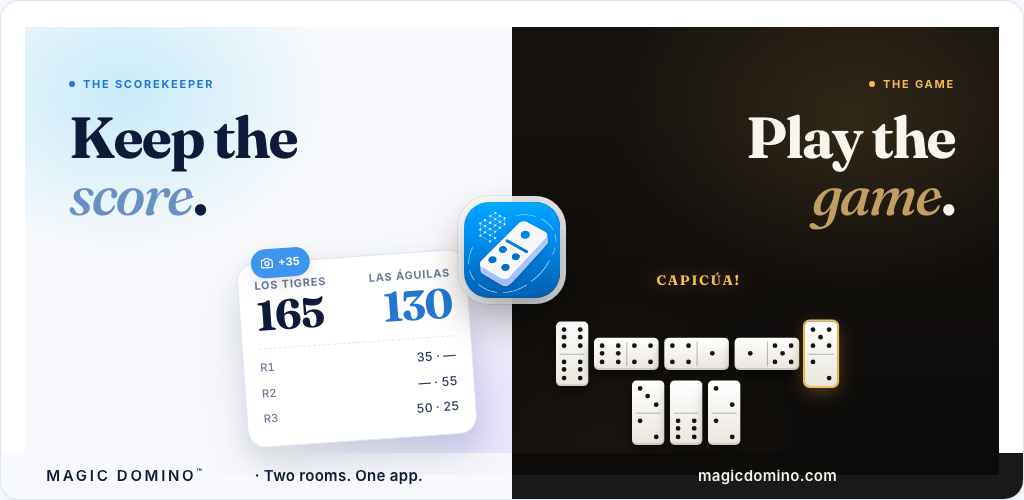
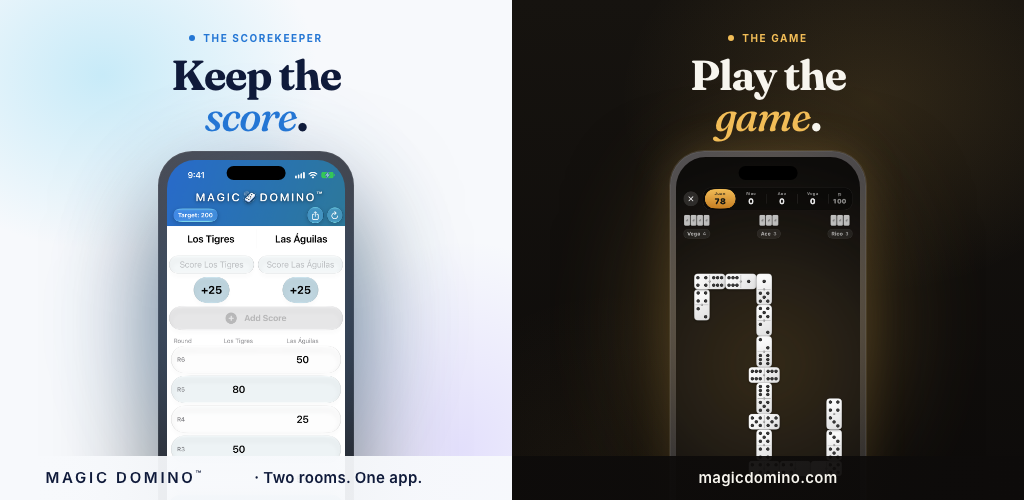
site: social card is the two-phone hero; dead illustration/hinge CSS removed; the bar has a fixed height the hero starts at, so the line and the panes meet at one pixel

diff --git a/index.html b/index.html
@@ -14,25 +14,25 @@
     <meta property="og:title" content="Magic Domino™ — Keep the score. Play the game.">
     <meta property="og:description" content="The dominoes scorekeeper trusted at real tables, and a real domino game with the rules you grew up with. Two rooms, one app.">
     <meta property="og:url" content="https://magicdomino.com/">
-    <meta property="og:image" content="https://magicdomino.com/social-card.png?v=20260930y">
+    <meta property="og:image" content="https://magicdomino.com/social-card.png?v=20260930z">
     <meta property="og:image:width" content="1024">
     <meta property="og:image:height" content="500">
     <meta name="twitter:card" content="summary_large_image">
     <meta name="twitter:title" content="Magic Domino™ — Keep the score. Play the game.">
     <meta name="twitter:description" content="The dominoes scorekeeper trusted at real tables, and a real domino game with the rules you grew up with. Two rooms, one app.">
-    <meta name="twitter:image" content="https://magicdomino.com/social-card.png?v=20260930y">
+    <meta name="twitter:image" content="https://magicdomino.com/social-card.png?v=20260930z">
 
     <link rel="preconnect" href="https://fonts.googleapis.com">
     <link rel="preconnect" href="https://fonts.gstatic.com" crossorigin>
     <link href="https://fonts.googleapis.com/css2?family=Fraunces:ital,opsz,wght@0,9..144,400;0,9..144,500;0,9..144,600;0,9..144,700;0,9..144,800;1,9..144,500&family=Inter:wght@400;500;600;700&display=swap" rel="stylesheet">
-    <link rel="stylesheet" href="site.css?v=20260930y">
-    <script src="/i18n.js?v=20260930y"></script>
+    <link rel="stylesheet" href="site.css?v=20260930z">
+    <script src="/i18n.js?v=20260930z"></script>
 </head>
 <body>
 
     <nav class="navbar" id="navbar">
         <a href="index.html" class="navbar-brand">
-            <img src="app-icon.png?v=20260930y" alt="" class="brand-icon"><span>Magic Domino<span class="brand-tm">™</span></span>
+            <img src="app-icon.png?v=20260930z" alt="" class="brand-icon"><span>Magic Domino<span class="brand-tm">™</span></span>
         </a>
         <button class="mobile-menu-toggle" onclick="toggleMenu()" aria-label="Menu" data-i18n-attr="aria-label:a11y.menu">☰</button>
         <div class="navbar-links" id="navbarLinks">
@@ -60,7 +60,7 @@
                     <a class="pane-link" href="#score"><span data-i18n="hero.scoreLink">See the scorekeeper</span> <span aria-hidden="true">↓</span></a>
                 </div>
                 <!-- A real phone, showing the real scoreboard, rising out of the pane. -->
-                <figure class="mock mock-score" aria-hidden="true"><img src="hero-score.png?v=20260930y" alt="" width="736" height="1600"></figure>
+                <figure class="mock mock-score" aria-hidden="true"><img src="hero-score.png?v=20260930z" alt="" width="736" height="1600"></figure>
             </div>
 
             <div class="pane pane-play world-play">
@@ -71,7 +71,7 @@
                     <a class="pane-link" href="#play"><span data-i18n="hero.playLink">See the game</span> <span aria-hidden="true">↓</span></a>
                 </div>
                 <!-- A real phone, showing the table mid-hand. -->
-                <figure class="mock mock-play" aria-hidden="true"><img src="hero-play.png?v=20260930y" alt="" width="736" height="1600"></figure>
+                <figure class="mock mock-play" aria-hidden="true"><img src="hero-play.png?v=20260930z" alt="" width="736" height="1600"></figure>
             </div>
 
         </div>
@@ -123,15 +123,15 @@
                 <button class="scroll-arrow scroll-arrow-left" aria-label="Previous screenshots" data-i18n-attr="aria-label:a11y.prevShots" onclick="scrollStrip('scoreStrip', -1)">‹</button>
                 <div class="strip" id="scoreStrip">
                     <figure class="shot"><div class="shot-frame">
-                        <img src="shot-2.png?v=20260930y" alt="Scoreboard view" data-i18n-attr="alt:alt.shot2" data-missing onload="shotLoaded(this)" onerror="this.remove()" loading="lazy">
+                        <img src="shot-2.png?v=20260930z" alt="Scoreboard view" data-i18n-attr="alt:alt.shot2" data-missing onload="shotLoaded(this)" onerror="this.remove()" loading="lazy">
                         <div class="ph"><div class="ph-title" data-i18n="alt.shot2">Scoreboard view</div></div>
                     </div></figure>
                     <figure class="shot"><div class="shot-frame">
-                        <img src="shot-3.png?v=20260930y" alt="Tournament bracket" data-i18n-attr="alt:alt.shot3" data-missing onload="shotLoaded(this)" onerror="this.remove()" loading="lazy">
+                        <img src="shot-3.png?v=20260930z" alt="Tournament bracket" data-i18n-attr="alt:alt.shot3" data-missing onload="shotLoaded(this)" onerror="this.remove()" loading="lazy">
                         <div class="ph"><div class="ph-title" data-i18n="alt.shot3">Tournament bracket</div></div>
                     </div></figure>
                     <figure class="shot"><div class="shot-frame">
-                        <img src="shot-4.png?v=20260930y" alt="Game history" data-i18n-attr="alt:alt.shot4" data-missing onload="shotLoaded(this)" onerror="this.remove()" loading="lazy">
+                        <img src="shot-4.png?v=20260930z" alt="Game history" data-i18n-attr="alt:alt.shot4" data-missing onload="shotLoaded(this)" onerror="this.remove()" loading="lazy">
                         <div class="ph"><div class="ph-title" data-i18n="alt.shot4">Game history</div></div>
                     </div></figure>
                 </div>
@@ -167,27 +167,27 @@
                 <button class="scroll-arrow scroll-arrow-left" aria-label="Previous screenshots" data-i18n-attr="aria-label:a11y.prevShots" onclick="scrollStrip('playStrip', -1)">‹</button>
                 <div class="strip" id="playStrip">
                     <figure class="shot"><div class="shot-frame">
-                        <img src="play-shot-1.png?v=20260930y" alt="The table" data-i18n-attr="alt:pshots.s1" data-missing onload="shotLoaded(this)" onerror="this.remove()" loading="lazy">
+                        <img src="play-shot-1.png?v=20260930z" alt="The table" data-i18n-attr="alt:pshots.s1" data-missing onload="shotLoaded(this)" onerror="this.remove()" loading="lazy">
                         <div class="ph"><div class="ph-title" data-i18n="pshots.s1">The table</div></div>
                     </div></figure>
                     <figure class="shot"><div class="shot-frame">
-                        <img src="play-shot-2.png?v=20260930y" alt="The front door" data-i18n-attr="alt:pshots.s5" data-missing onload="shotLoaded(this)" onerror="this.remove()" loading="lazy">
+                        <img src="play-shot-2.png?v=20260930z" alt="The front door" data-i18n-attr="alt:pshots.s5" data-missing onload="shotLoaded(this)" onerror="this.remove()" loading="lazy">
                         <div class="ph"><div class="ph-title" data-i18n="pshots.s5">The front door</div></div>
                     </div></figure>
                     <figure class="shot"><div class="shot-frame">
-                        <img src="play-shot-3.png?v=20260930y" alt="Pick your game" data-i18n-attr="alt:pshots.s2" data-missing onload="shotLoaded(this)" onerror="this.remove()" loading="lazy">
+                        <img src="play-shot-3.png?v=20260930z" alt="Pick your game" data-i18n-attr="alt:pshots.s2" data-missing onload="shotLoaded(this)" onerror="this.remove()" loading="lazy">
                         <div class="ph"><div class="ph-title" data-i18n="pshots.s2">Pick your game</div></div>
                     </div></figure>
                     <figure class="shot"><div class="shot-frame">
-                        <img src="play-shot-4.png?v=20260930y" alt="Play together" data-i18n-attr="alt:pshots.s3" data-missing onload="shotLoaded(this)" onerror="this.remove()" loading="lazy">
+                        <img src="play-shot-4.png?v=20260930z" alt="Play together" data-i18n-attr="alt:pshots.s3" data-missing onload="shotLoaded(this)" onerror="this.remove()" loading="lazy">
                         <div class="ph"><div class="ph-title" data-i18n="pshots.s3">Play together</div></div>
                     </div></figure>
                     <figure class="shot"><div class="shot-frame">
-                        <img src="play-shot-5.png?v=20260930y" alt="The bracket" data-i18n-attr="alt:pshots.s4" data-missing onload="shotLoaded(this)" onerror="this.remove()" loading="lazy">
+                        <img src="play-shot-5.png?v=20260930z" alt="The bracket" data-i18n-attr="alt:pshots.s4" data-missing onload="shotLoaded(this)" onerror="this.remove()" loading="lazy">
                         <div class="ph"><div class="ph-title" data-i18n="pshots.s4">The bracket</div></div>
                     </div></figure>
                     <figure class="shot"><div class="shot-frame">
-                        <img src="play-shot-6.png?v=20260930y" alt="The hand is over" data-i18n-attr="alt:pshots.s6" data-missing onload="shotLoaded(this)" onerror="this.remove()" loading="lazy">
+                        <img src="play-shot-6.png?v=20260930z" alt="The hand is over" data-i18n-attr="alt:pshots.s6" data-missing onload="shotLoaded(this)" onerror="this.remove()" loading="lazy">
                         <div class="ph"><div class="ph-title" data-i18n="pshots.s6">The hand is over</div></div>
                     </div></figure>
                 </div>
@@ -211,7 +211,7 @@
                     <span class="tag" data-i18n="duo.tag">iPhone Duo · opened</span>
                 </div>
                 <figure class="duo-frame">
-                    <img src="duo-split.png?v=20260930y" alt="Magic Domino on an opened iPhone Duo: the scoreboard on the left half, a domino hand in play on the right" width="1800" height="1266" loading="lazy">
+                    <img src="duo-split.png?v=20260930z" alt="Magic Domino on an opened iPhone Duo: the scoreboard on the left half, a domino hand in play on the right" width="1800" height="1266" loading="lazy">
                 </figure>
             </div>
         </div>
@@ -241,7 +241,7 @@
 
     <footer>
         <a href="#top" class="footer-brand">
-            <img src="app-icon.png?v=20260930y" alt="" class="brand-icon"><span>Magic Domino<span class="brand-tm">™</span></span>
+            <img src="app-icon.png?v=20260930z" alt="" class="brand-icon"><span>Magic Domino<span class="brand-tm">™</span></span>
         </a>
         <div class="store-row footer-store">
             <a href="https://apps.apple.com/us/app/magic-domino-ai-scorekeeper/id6747228055" class="store-badge" aria-label="Download on the App Store">

diff --git a/site.css b/site.css
@@ -28,15 +28,14 @@
     --border: #dbe6f2;
     --muted: #6b7a99;
 
-    /* The fixed bar's exact height, derived from the same numbers that draw it:
-       vertical padding × 2 + the 32px brand icon (the menu toggle is 32px too) +
-       the 1px bottom line. The hero starts at exactly this height, so its top edge
-       sits ON the bar's line. Before (2026-09-30) the hero hard-coded 4.4rem /
-       3.9rem against a ~60px bar, and Juan saw a strip of page between the line
-       and the dark pane: "get rid of that, it bothers me". Change the bar's padding
-       here, never in .navbar, or the two drift apart again. */
-    --nav-pad: 0.85rem;
-    --nav-h: calc(var(--nav-pad) * 2 + 32px + 1px);
+    /* The fixed bar's height, ONE number the bar and the hero both use: the bar IS
+       this tall (height, not padding — its tallest child used to decide, and the
+       "Get the app" pill is taller than the 32px icon), and the hero's top padding
+       is the same value, so the bar's 1px line and the panes meet at the same pixel
+       in every browser. Juan, 2026-09-30, on a strip of page showing between the
+       line and the dark pane: "get rid of that, it bothers me". Verified by a pixel
+       scan at 402, 1024 and 1440 wide. */
+    --nav-h: 60px;
 
     /* The game's palette (PlayPalette): felt, brass, ivory. */
     --felt: #0d0b0a;
@@ -114,7 +113,7 @@ a { color: inherit; }
     display: flex;
     justify-content: space-between;
     align-items: center;
-    padding: var(--nav-pad) 2.25rem; /* --nav-pad: see :root — the hero is sized from it */
+    height: var(--nav-h); padding: 0 2.25rem; /* --nav-h: see :root — the hero starts at it */
     background: rgba(247, 249, 252, 0.82);
     -webkit-backdrop-filter: blur(18px);
     backdrop-filter: blur(18px);
@@ -262,26 +261,6 @@ section { padding: 6rem 0; }
 }
 .pane-link:hover { opacity: 0.8; }
 
-/* The hinge: the one app icon on the seam. NOT in the home page's hero any more
-   (removed from both widths, 2026-09-30 — the phones say "two rooms", the line under
-   them says "one app"); the rules stay for social-card.html, which still draws it. */
-.hinge {
-    position: absolute; left: 50%; top: 50%; transform: translate(-50%, -50%);
-    z-index: 5; display: grid; justify-items: center; gap: 0.6rem;
-    pointer-events: none;
-}
-.hinge-icon {
-    width: 108px; height: 108px; border-radius: 26%;
-    box-shadow: 0 18px 40px rgba(0, 0, 0, 0.35), 0 0 0 6px rgba(255, 255, 255, 0.9), 0 0 0 7px rgba(15, 26, 58, 0.08);
-    animation: hingeFloat 7s ease-in-out infinite;
-}
-.hinge-label {
-    font-size: 0.7rem; font-weight: 700; letter-spacing: 0.18em; text-transform: uppercase;
-    padding: 0.35rem 0.75rem; border-radius: 999px;
-    background: var(--paper); color: var(--ink); box-shadow: var(--shadow-md);
-}
-@keyframes hingeFloat { 0%, 100% { transform: translateY(0); } 50% { transform: translateY(-8px); } }
-
 /* Shared block under the split: the one sentence, the badges, the meta line. */
 .hero-one {
     text-align: center; padding: 3.5rem 1.5rem 4rem;
@@ -377,78 +356,6 @@ section { padding: 6rem 0; }
 .mock-play::before  { animation: haloGame  7s linear 1.25s infinite; }
 @keyframes haloScore { 0%, 100% { opacity: 0.75; } 25% { opacity: 1; } 75% { opacity: 0.5; } }
 @keyframes haloGame  { 0%, 100% { opacity: 0.75; } 25% { opacity: 0.5; } 75% { opacity: 1; } }
-
-/* ---- Pane illustrations (kept for social-card.html). ---- */
-.ill { position: absolute; z-index: 1; pointer-events: none; user-select: none; }
-
-/* Score: a small scoreboard card. */
-.ill-score {
-    right: clamp(1rem, 4vw, 4rem); bottom: 2.4rem;
-    width: 250px; background: var(--paper); border-radius: 18px; border: 1px solid var(--border);
-    box-shadow: var(--shadow-lg); padding: 0.9rem 1rem 1rem;
-    transform: rotate(-4deg);
-    animation: cardIn 0.9s cubic-bezier(0.2, 0.8, 0.2, 1) both;
-}
-.ill-score .row { display: grid; grid-template-columns: 1fr 1fr; gap: 0.6rem; align-items: end; }
-.ill-score .team { font-size: 0.68rem; font-weight: 700; letter-spacing: 0.08em; text-transform: uppercase; color: var(--muted); }
-.ill-score .team.b { text-align: right; }
-.ill-score .total { font-family: var(--display); font-weight: 700; font-size: 2.6rem; line-height: 1; letter-spacing: -0.03em; color: var(--ink); }
-.ill-score .total.b { text-align: right; color: var(--accent-deep); }
-.ill-score .ledger { margin-top: 0.7rem; border-top: 1px dashed var(--border); padding-top: 0.55rem; display: grid; gap: 0.32rem; }
-.ill-score .ledger div { display: flex; justify-content: space-between; font-size: 0.78rem; color: var(--ink-soft); font-variant-numeric: tabular-nums; }
-.ill-score .ledger div span:first-child { color: var(--muted); font-size: 0.7rem; }
-.ill-score .cam {
-    position: absolute; top: -14px; left: 14px;
-    display: inline-flex; align-items: center; gap: 0.35rem;
-    background: var(--accent); color: #fff; font-size: 0.7rem; font-weight: 700;
-    padding: 0.32rem 0.6rem; border-radius: 999px; box-shadow: var(--shadow-md);
-}
-.ill-score .cam svg { width: 12px; height: 12px; }
-/* Animates `translate`, not `transform`, so it composes with the card's own
-   rotate/scale instead of overriding them (the phone scales this card down). */
-@keyframes cardIn { from { opacity: 0; translate: 0 18px; } }
-
-/* Play: a line of dominoes on the felt, one just played (brass edge), a rack below. */
-.ill-play { left: clamp(1rem, 4vw, 4rem); bottom: 2.2rem; width: 300px; height: 190px; }
-.tile {
-    position: absolute; width: 34px; height: 68px; border-radius: 5px;
-    background: linear-gradient(180deg, #ffffff, #e9e6dd);
-    box-shadow: 0 6px 14px rgba(0, 0, 0, 0.55), inset 0 -2px 0 rgba(0, 0, 0, 0.12);
-    display: grid; grid-template-rows: 1fr 1fr;
-}
-.tile::after { content: ""; position: absolute; left: 4px; right: 4px; top: 50%; height: 1px; background: rgba(0, 0, 0, 0.28); }
-.tile.h { width: 68px; height: 34px; grid-template-rows: 1fr; grid-template-columns: 1fr 1fr; }
-.tile.h::after { left: 50%; right: auto; top: 4px; bottom: 4px; height: auto; width: 1px; }
-.tile.just { box-shadow: 0 0 0 2px var(--brass), 0 6px 18px rgba(242, 189, 87, 0.35), 0 6px 14px rgba(0, 0, 0, 0.55); }
-.tile.back { background: linear-gradient(160deg, #3a332a, #221d17); }
-.tile.back::after { display: none; }
-/* Pips: a 3×3 grid, dots switched on by class. */
-.face { display: grid; grid-template-columns: repeat(3, 1fr); grid-template-rows: repeat(3, 1fr); padding: 4px; }
-.face i { border-radius: 50%; background: #171410; margin: auto; width: 5px; height: 5px; visibility: hidden; }
-.face.p1 i:nth-child(5), .face.p3 i:nth-child(5), .face.p5 i:nth-child(5) { visibility: visible; }
-.face.p2 i:nth-child(1), .face.p2 i:nth-child(9),
-.face.p3 i:nth-child(1), .face.p3 i:nth-child(9),
-.face.p4 i:nth-child(1), .face.p4 i:nth-child(3), .face.p4 i:nth-child(7), .face.p4 i:nth-child(9),
-.face.p5 i:nth-child(1), .face.p5 i:nth-child(3), .face.p5 i:nth-child(7), .face.p5 i:nth-child(9),
-.face.p6 i:nth-child(1), .face.p6 i:nth-child(3), .face.p6 i:nth-child(4), .face.p6 i:nth-child(6), .face.p6 i:nth-child(7), .face.p6 i:nth-child(9) { visibility: visible; }
-.ill-play .t1 { left: 0;    top: 60px; }
-.ill-play .t2 { left: 40px; top: 77px; }
-.ill-play .t3 { left: 114px; top: 77px; }
-.ill-play .t4 { left: 188px; top: 77px; }
-.ill-play .t5 { left: 262px; top: 60px; }
-.ill-play .rack .tile { top: auto; bottom: 0; }
-.ill-play .rack .r1 { left: 80px; }
-.ill-play .rack .r2 { left: 120px; }
-.ill-play .rack .r3 { left: 160px; }
-.ill-play .call {
-    position: absolute; left: 150px; top: 6px; transform: translateX(-50%);
-    font-family: var(--display); font-weight: 800; letter-spacing: 0.12em; font-size: 0.9rem;
-    color: var(--brass); text-shadow: 0 0 18px rgba(242, 189, 87, 0.45);
-}
-.ill-play .tile { animation: tileIn 0.7s cubic-bezier(0.2, 0.8, 0.2, 1) both; }
-.ill-play .t2 { animation-delay: 0.08s; } .ill-play .t3 { animation-delay: 0.16s; }
-.ill-play .t4 { animation-delay: 0.24s; } .ill-play .t5 { animation-delay: 0.32s; }
-@keyframes tileIn { from { opacity: 0; translate: 0 -14px; } }
 
 /* ===== Tags and chips ========================================================== */
 .tag {
@@ -600,8 +507,6 @@ footer {
 #backToTournament .btt-code { font-variant-numeric: tabular-nums; letter-spacing: 0.14em; color: var(--accent-deep); font-weight: 700; }
 
 /* ===== Right-to-left (Arabic, Urdu) ============================================ */
-[dir="rtl"] .ill-score { right: auto; left: clamp(1rem, 4vw, 4rem); transform: rotate(4deg); }
-[dir="rtl"] .ill-play { left: auto; right: clamp(1rem, 4vw, 4rem); }
 /* The illustrations carry Latin labels and numbers; they never mirror. */
 [dir="rtl"] .ill { direction: ltr; }
 [dir="rtl"] .brand-tm { margin-left: 0; margin-right: 0.05em; }
@@ -621,12 +526,9 @@ footer {
 }
 
 /* ===== Responsive =============================================================== */
-@media (max-width: 1000px) {
-    .ill-score { width: 220px; }
-}
 @media (max-width: 820px) {
-    :root { --nav-pad: 0.8rem; }
-    .navbar { padding: var(--nav-pad) 1.25rem; }
+    :root { --nav-h: 58px; }
+    .navbar { padding: 0 1.25rem; }
     .navbar-links {
         display: none; position: absolute; top: 100%; left: 0; right: 0;
         flex-direction: column; align-items: flex-start; gap: 1rem; padding: 1.25rem;

diff --git a/social-card.html b/social-card.html
@@ -1,5 +1,7 @@
 <!DOCTYPE html>
-<!-- The share image (social-card.png), composed from the same CSS as the hero so it
+<!-- The share image (social-card.png): the home page's hero at 1024×500 — the two real
+     phones under their headlines, one light half and one felt half, the brand line
+     across the foot. Composed from the SAME CSS as the hero (`.pane`, `.mock`), so it
      stays in step with the home page. Render it at exactly 1024×500:
 
        "/Applications/Google Chrome.app/Contents/MacOS/Google Chrome" --headless=new \
@@ -7,7 +9,8 @@
          --screenshot=social-card.png "http://localhost:8765/social-card.html"
 
      (serve the folder with `python3 -m http.server 8765` first so fonts and CSS load).
-     Not linked from any page; it is a build tool, kept because the PNG is derived from it. -->
+     Not linked from any page; it is a build tool, kept because the PNG is derived from it.
+     Rebuilt 2026-09-30 when the hero moved from CSS drawings to the two phones. -->
 <html lang="en">
 <head>
     <meta charset="UTF-8">
@@ -16,19 +19,18 @@
     <style>
         html, body { width: 1024px; height: 500px; overflow: hidden; margin: 0; }
         .card { position: relative; width: 1024px; height: 500px; display: grid; grid-template-columns: 1fr 1fr; }
-        .card .pane { padding: 48px 44px; min-height: 0; justify-content: flex-start; }
-        .card .pane-title { font-size: 58px; }
-        .card .pane-desc { display: none; }
-        .card .eyebrow { font-size: 11px; }
-        .card .ill-score { width: 230px; right: 40px; bottom: 34px; transform: rotate(-4deg); animation: none; }
-        .card .ill-play { left: 44px; bottom: 30px; transform: scale(0.95); transform-origin: left bottom; }
-        .card .ill-play .tile { animation: none; }
-        .card .hinge { top: 50%; }
-        .card .hinge-icon { width: 96px; height: 96px; animation: none; }
-        .card .hinge-label { display: none; }
+        .card .pane { height: 500px; padding: 30px 24px 0; }
+        .card .pane-inner { gap: 8px; }
+        .card .eyebrow { font-size: 10px; letter-spacing: 0.16em; }
+        .card .pane-title { font-size: 42px; }
+        /* Frozen: no entrance, no float, no word cycle — a still picture at rest. */
+        .card .pane-title em { animation: none; }
+        .card .pane-desc, .card .pane-link { display: none; }
+        .card .mock { width: 196px; margin: 14px auto 0; animation: none; translate: 0 0; }
+        .card .mock::before { animation: none; opacity: 0.75; }
         .card .one-line {
-            position: absolute; left: 0; right: 0; bottom: 0; text-align: center; padding: 14px 0 16px;
-            background: linear-gradient(90deg, rgba(247,249,252,0.94) 0 50%, rgba(13,11,10,0.94) 50% 100%);
+            position: absolute; left: 0; right: 0; bottom: 0; z-index: 5; text-align: center; padding: 13px 0 15px;
+            background: linear-gradient(90deg, rgba(247, 249, 252, 0.94) 0 50%, rgba(13, 11, 10, 0.94) 50% 100%);
             font: 600 15px/1 'Inter', sans-serif; letter-spacing: 0.02em;
         }
         .card .one-line .l { color: var(--ink); }
@@ -43,37 +45,15 @@
                 <span class="eyebrow"><span class="dot"></span> The scorekeeper</span>
                 <h2 class="pane-title">Keep the <em>score</em>.</h2>
             </div>
-            <div class="ill ill-score" aria-hidden="true">
-                <span class="cam"><svg viewBox="0 0 24 24" fill="none" stroke="currentColor" stroke-width="2.5"><path d="M23 19a2 2 0 0 1-2 2H3a2 2 0 0 1-2-2V8a2 2 0 0 1 2-2h4l2-3h6l2 3h4a2 2 0 0 1 2 2z"/><circle cx="12" cy="13" r="4"/></svg> +35</span>
-                <div class="row"><span class="team">Los Tigres</span><span class="team b">Las Águilas</span></div>
-                <div class="row"><span class="total">165</span><span class="total b">130</span></div>
-                <div class="ledger">
-                    <div><span>R1</span><span>35 · —</span></div>
-                    <div><span>R2</span><span>— · 55</span></div>
-                    <div><span>R3</span><span>50 · 25</span></div>
-                </div>
-            </div>
+            <figure class="mock mock-score" aria-hidden="true"><img src="hero-score.png" alt="" width="736" height="1600"></figure>
         </div>
         <div class="pane pane-play world-play">
             <div class="pane-inner">
                 <span class="eyebrow"><span class="dot"></span> The game</span>
                 <h2 class="pane-title">Play the <em>game</em>.</h2>
             </div>
-            <div class="ill ill-play" aria-hidden="true">
-                <span class="call">CAPICÚA!</span>
-                <div class="tile t1"><div class="face p6"><i></i><i></i><i></i><i></i><i></i><i></i><i></i><i></i><i></i></div><div class="face p6"><i></i><i></i><i></i><i></i><i></i><i></i><i></i><i></i><i></i></div></div>
-                <div class="tile h t2"><div class="face p6"><i></i><i></i><i></i><i></i><i></i><i></i><i></i><i></i><i></i></div><div class="face p4"><i></i><i></i><i></i><i></i><i></i><i></i><i></i><i></i><i></i></div></div>
-                <div class="tile h t3"><div class="face p4"><i></i><i></i><i></i><i></i><i></i><i></i><i></i><i></i><i></i></div><div class="face p1"><i></i><i></i><i></i><i></i><i></i><i></i><i></i><i></i><i></i></div></div>
-                <div class="tile h t4"><div class="face p1"><i></i><i></i><i></i><i></i><i></i><i></i><i></i><i></i><i></i></div><div class="face p5"><i></i><i></i><i></i><i></i><i></i><i></i><i></i><i></i><i></i></div></div>
-                <div class="tile just t5"><div class="face p5"><i></i><i></i><i></i><i></i><i></i><i></i><i></i><i></i><i></i></div><div class="face p2"><i></i><i></i><i></i><i></i><i></i><i></i><i></i><i></i><i></i></div></div>
-                <div class="rack">
-                    <div class="tile r1"><div class="face p3"><i></i><i></i><i></i><i></i><i></i><i></i><i></i><i></i><i></i></div><div class="face p2"><i></i><i></i><i></i><i></i><i></i><i></i><i></i><i></i><i></i></div></div>
-                    <div class="tile r2"><div class="face p0"><i></i><i></i><i></i><i></i><i></i><i></i><i></i><i></i><i></i></div><div class="face p6"><i></i><i></i><i></i><i></i><i></i><i></i><i></i><i></i><i></i></div></div>
-                    <div class="tile r3"><div class="face p2"><i></i><i></i><i></i><i></i><i></i><i></i><i></i><i></i><i></i></div><div class="face p2"><i></i><i></i><i></i><i></i><i></i><i></i><i></i><i></i><i></i></div></div>
-                </div>
-            </div>
+            <figure class="mock mock-play" aria-hidden="true"><img src="hero-play.png" alt="" width="736" height="1600"></figure>
         </div>
-        <div class="hinge" aria-hidden="true"><img src="app-icon.png" alt="" class="hinge-icon"></div>
         <div class="one-line"><span class="l" style="font-weight:600;letter-spacing:0.18em;text-transform:uppercase">Magic Domino<sup style="font-size:0.6em">™</sup> <span style="letter-spacing:0.02em;text-transform:none;font-weight:600">· Two rooms. One app.</span></span><span class="r">magicdomino.com</span></div>
     </div>
 </body>
